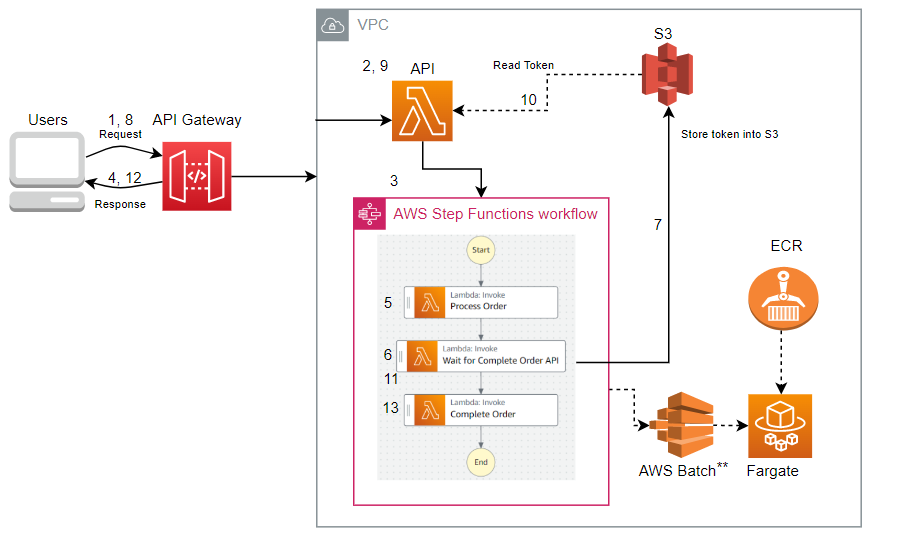
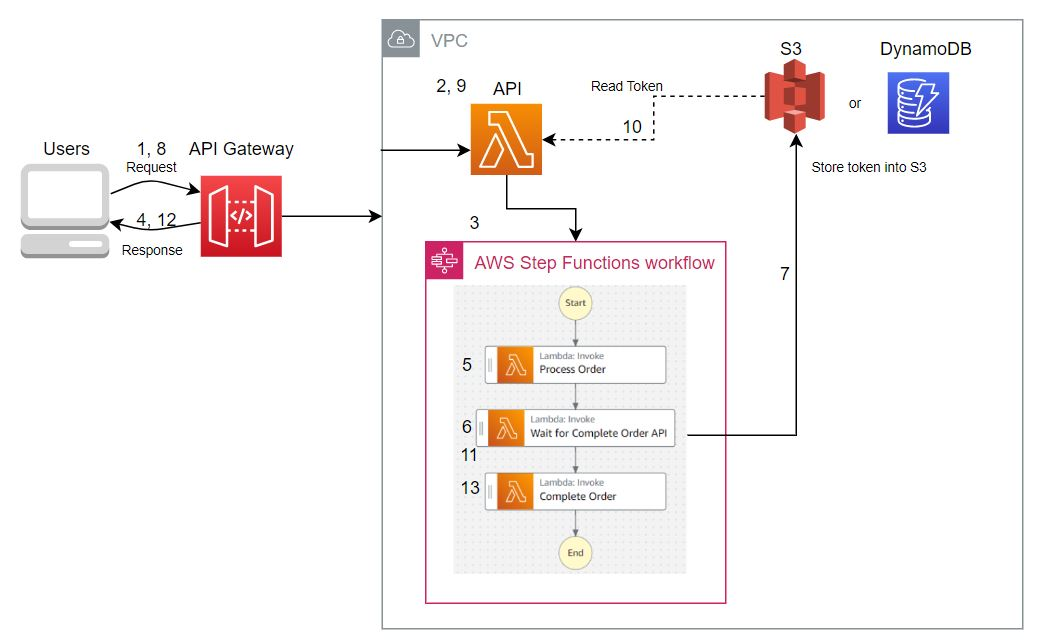
pattern for setp functions callback using dotnet

Changed region(s): [[0.0, 0.0, 0.9912, 0.9819], [0.8053, 0.4296, 0.9292, 0.6137]]

diff --git a/sfn-callback-pattern-cdk-dotnet/Readme.md b/sfn-callback-pattern-cdk-dotnet/Readme.md
@@ -1,0 +1,87 @@
+# AWS Step Functions callback pattern using dotnet
+
+In workflow based application execution, few steps require a pause and wait for the confirmation/approval from external sources, after getting confirmation it resumes or terminates the execution. To accomplish this, a callback pattern can be used where an AWS Step function pause during a task, and wait for an external process or command to return the task token, that was generated when the task started. This sample provides implementation of callback pattern for approval or confirmation step from external API/service with the help of Amazon S3, and AWS Lambda functions.
+
+Important: this application uses various AWS services and there are costs associated with these services after the Free Tier usage - please see the [AWS Pricing page](https://aws.amazon.com/pricing/) for details. You are responsible for any AWS costs incurred. No warranty is implied in this example.
+
+## Requirements
+
+* [Create an AWS account](https://portal.aws.amazon.com/gp/aws/developer/registration/index.html) if you do not already have one and log in. The IAM user that you use must have sufficient permissions to make necessary AWS service calls and manage AWS resources.
+* [AWS CLI](https://docs.aws.amazon.com/cli/latest/userguide/install-cliv2.html) installed and configured
+* [Git Installed](https://git-scm.com/book/en/v2/Getting-Started-Installing-Git)
+* [AWS CDK](https://docs.aws.amazon.com/cdk/v2/guide/work-with-cdk-csharp.html) (AWS CDK) installed
+
+## Deployment Instructions
+
+1. Create a new directory, navigate to that directory in a terminal and clone the GitHub repository:
+    ``` 
+    git clone https://github.com/aws-samples/aws-step-functions-callback-pattern-dotnet-sample
+    ```
+1. Change directory to the pattern directory:
+    ```
+    cd aws-step-functions-callback-pattern-dotnet-sample
+    ```
+1. From the command line, use AWS CDK to deploy the AWS resources for the pattern
+    ```
+    cdk deploy
+    ```
+
+ Note the outputs from the CDK deployment process. These contain the resource names and/or ARNs which are used for testing.
+
+## How it works
+
+This is the architecture that this sample implements for callback pattern.
+This is the architecture that this sample implements.
+![callback-pattern-sample-architecture](https://github.com/aws-samples/serverless-patterns/main/sfn-callback-pattern-cdk-dotnet/img/callback-pattern.png)
+
+1. User sends process order request.
+2. API Lambda function validate request.
+3. API Lambda trigger the setp function workflow.
+4. API Lambda sends acknowledgement response to the user.
+5. Process order task execution starts.
+6. Execution paused and wait for confirmation API, invoke storeTaskToken lambda function.
+7. storeTaskToken lambda function stores task token into S3 bucket.
+8. User sends confirmation request to API.
+9. API lambda validate confirmation request.
+10. API lambda fetch task token from S3 for given request and sends task sucess to step functions.
+11. As it gets `SendTaskSucess`, it resumes the execution.
+12. API lambda sends acknowledgement response to the user.
+13. Starts complete order task\
+\
+***Note: To store task token any kind of storage you can use as Amazon S3/ DynamoDB/ Any DB based on your scanrio and cost considerations. You can use ECS Task (with Fargate) if task in Step function is taking more than 15 minutes as lambda function has 15 minutes per execution time limit.***
+
+
+## Testing
+
+After deployment, you will get API Gateway endpoint URL under outputs. You can use that URL to create the requests using Postman/Swagger or any other tool for REST APIs.
+
+1. Process Order Request:\
+Method: POST\
+URL: {Your API Gateway endpoint URL}/OrderRequest/ProcessOrder\
+Headers: x-api-key: {Take the same value that is passed in cdkstack.cs file under cdk project in solution}\
+Body:
+    `{
+    "OrderId":"2d6bfae2-c279-41d5-b59e-280b22733f9d",
+    "OrderDetails":"order1"
+    }`
+2. Check the workflow execution in AWS Console, it must be Paused and waiting for confirmation.
+3. Confirm/Complete Order Request:\
+Method: POST\
+URL: {Your API Gateway endpoint URL}/OrderRequest/CompleteOrder\
+Headers: x-api-key: {Take the same value that is passed in cdkstack.cs file under cdk project in solution}\
+Body:
+    `{
+    "OrderId":"2d6bfae2-c279-41d5-b59e-280b22733f9d",
+    "OrderDetails":"order1",
+    "IsConfirmed":true
+    }`
+
+## Cleanup
+ 
+Delete the stack
+    ```cdk destroy
+    ```
+----
+Copyright 2023 Amazon.com, Inc. or its affiliates. All Rights Reserved.
+
+SPDX-License-Identifier: MIT-0
